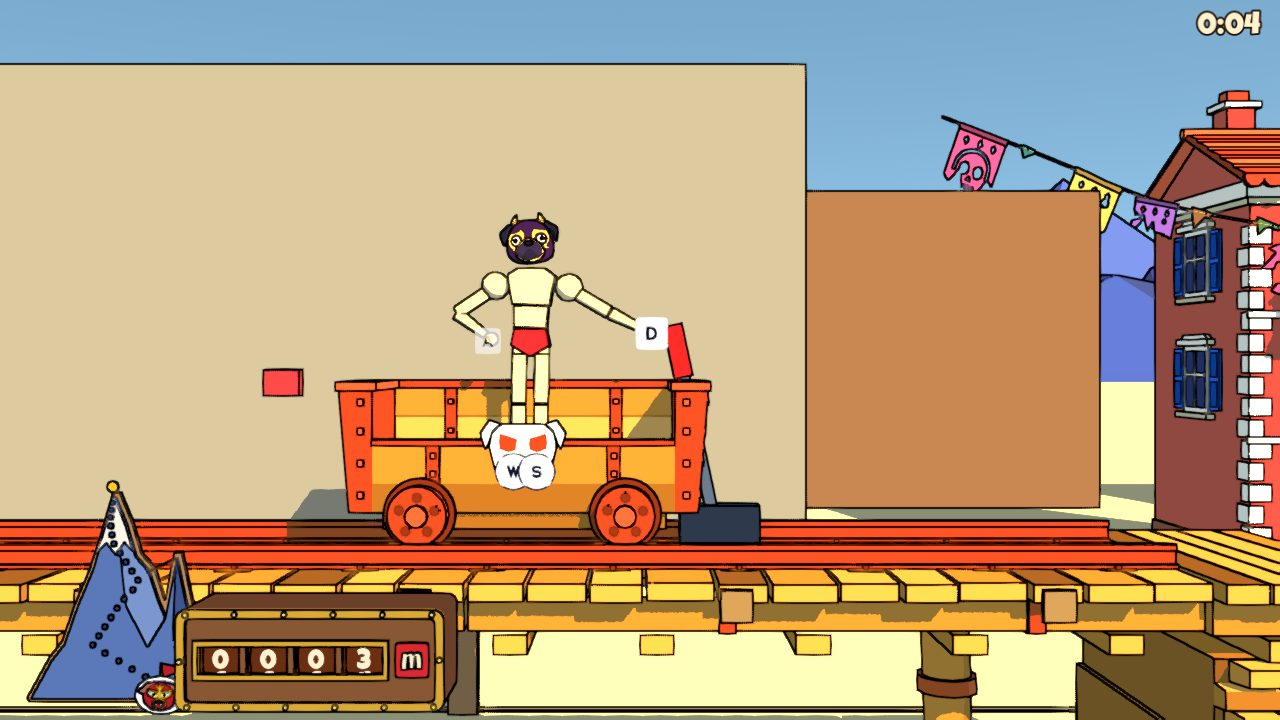
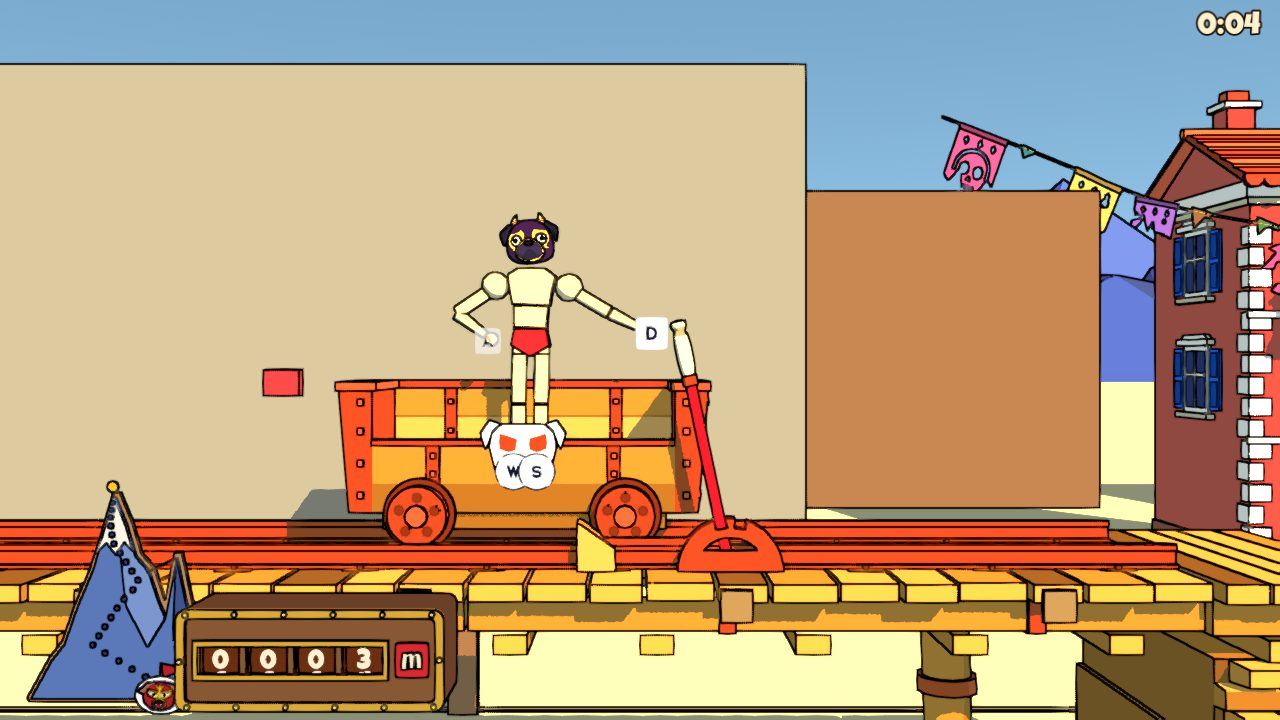
The station test, note 72: the lever in front of the rail, with its models
- The lever stands 0.65 m in front of the climb, just in front of the near
  rail (it was 0.45 m behind and half hidden by the cart).
- The Kit's stn_lever_base and stn_lever_arm are synced and imported; the
  notches are 11.9 degrees either side of upright, as the arm was made.
- The base's rod and chock (stn_lever_rod) are drawn 0.42 m east as the
  lever goes over, out from under the cart's near wheel, and go back with it.
- The .uid files Godot wrote for the water shaders, the rope bench and the
  probe are added, as every other script's is.

Changed region(s): [[0.4375, 0.4278, 0.625, 0.7944], [0.3438, 0.8556, 0.375, 0.9167]]

diff --git a/tools/peak/areas/a0.py b/tools/peak/areas/a0.py
@@ -47,7 +47,10 @@ A.mover("cart0", RIDE[0], cart_shapes,
 # (-7.95, 3.86), over the cart's east end, in reach from the cart and from the deck. Drawn
 # east 0.7 m at the handle it drops into its second notch and the cart goes. It comes back
 # to its first notch when the cart comes home.
-A.lever("palanca", (-7.6, 2.2), "cart0", length=1.7, rest=12.0, pull=-12.0, grip=0.4, z=-0.45)
+# It stands just in front of the near rail (z +0.65), so the whole shaft shows across the
+# cart's end and its chock shows under the cart's near wheel. The arm's notches are 11.9
+# degrees either side of upright.
+A.lever("palanca", (-7.6, 2.2), "cart0", length=1.7, rest=11.9, pull=-11.9, grip=0.4, z=0.65)
 # The rails (the Carpenter's rail_straight, 4 m a piece): their base 0.55 under the cart's road.
 import math
 for (x0, y0), (x1, y1) in zip([(-4.6, 2.65)] + RIDE[1:-1], RIDE[1:]):

diff --git a/docs/peak/playtest/WORK_LOG.md b/docs/peak/playtest/WORK_LOG.md
@@ -1304,8 +1304,8 @@ buzz is still heard, the chirrs are the first thing to take out.
 
 ## Note 72: the station's lever starts the cart
 
-- **State:** done, watched in the game and in the battery. Drawn with stand-ins until
-  the Kit's two models land. Nothing played by a person.
+- **State:** done, watched in the game and in the battery, with the Kit's two models.
+  Nothing played by a person.
 - **Parker 11-13:** "make it so you have to pull the lever to start the cart, regardless
   of if you are in the cart. If you pull the lever it goes. It controls like the chair
   whaere you are hlding the activated limb".
@@ -1325,16 +1325,23 @@ buzz is still heard, the chirrs are the first thing to take out.
     with a quieter clunk, when the cart is home.
   - **The cart comes home by its old rule,** unchanged: 25 s after it stops, once the
     climber is 22 m from it (or 75 s after, if nobody is on it).
-  - It stands 0.45 m behind the climb and is never solid: nothing sticks to it.
+  - It stands 0.65 m in FRONT of the climb, just in front of the near rail (the
+    Director's change, 11-13: behind the cart it was half hidden), and is never solid:
+    nothing sticks to it.
+  - **The chock.** The base model carries the rod and the chock as its own object
+    (`stn_lever_rod`). As the lever is drawn over, the rod draws the chock 0.42 m east,
+    out from under the cart's near wheel; it goes back with the lever.
   - The old `brake_lever` deco is gone.
-- **Where it is:** pivot at (-7.6, 2.2) on the deck; the arm 1.7 m; at rest 12 degrees
-  west of upright (its top at (-7.95, 3.86)), pulled 12 degrees east ((-7.25, 3.86)).
+- **Where it is:** pivot at (-7.6, 2.2) on the deck; the arm 1.7 m; at rest 11.9 degrees
+  west of upright (its top at (-7.95, 3.86)), pulled 11.9 degrees east ((-7.25, 3.86)):
+  the notches the arm's model was made to.
   The brief's pulled height of 3.75 does not fit a 1.7 m arm turned about that pivot;
   the angles are what the game uses.
 - **The models:** `stn_lever_base` (origin at the pivot) and `stn_lever_arm` (straight
-  up from the pivot; the game turns it) are loaded by name. Neither is in
-  `kit/models/` yet, so a dark block and an iron bar with a red grip stand in. When
-  the models land they are used with no change here.
+  up from the pivot; the game turns it), synced from the Kit and imported
+  (`kit/models/`). If either is ever missing, a dark block and an iron bar with a red
+  grip stand in. A thicker arm, re-landed with the same origin and length, needs only
+  a sync and an import.
 - **Watched** (the probe's `lever` scene): 3 s standing in the cart, it did not move.
   The right hand, its button held, took the handle; drawn east it was thrown in 0.28 s
   and the cart rolled. The cart was home 42.8 s after the pull and the lever back in
